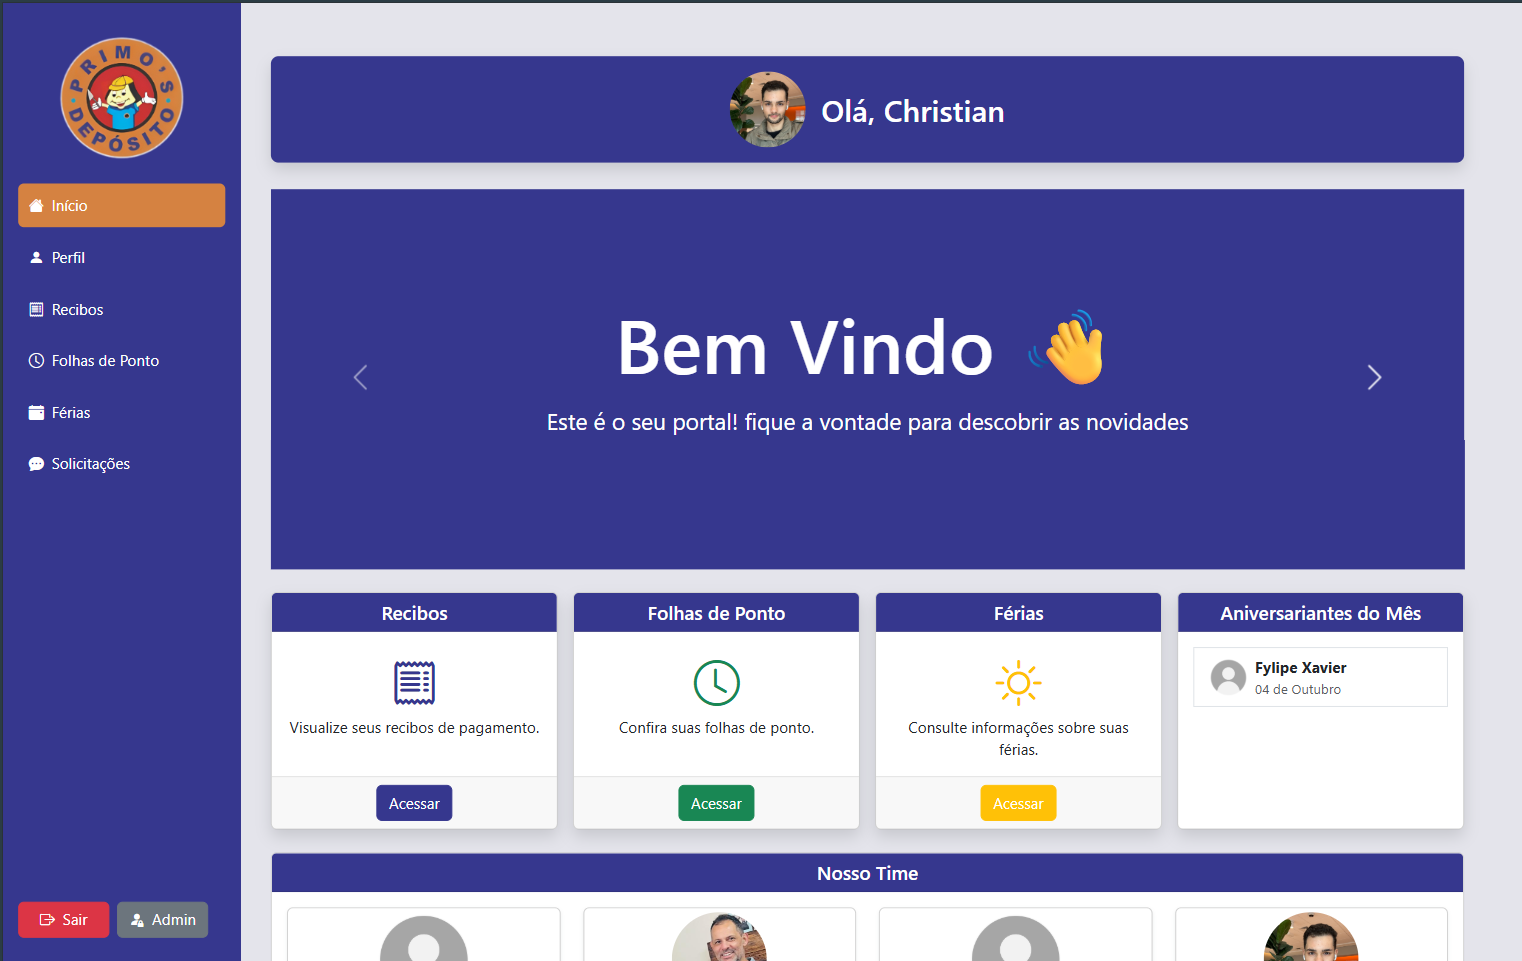
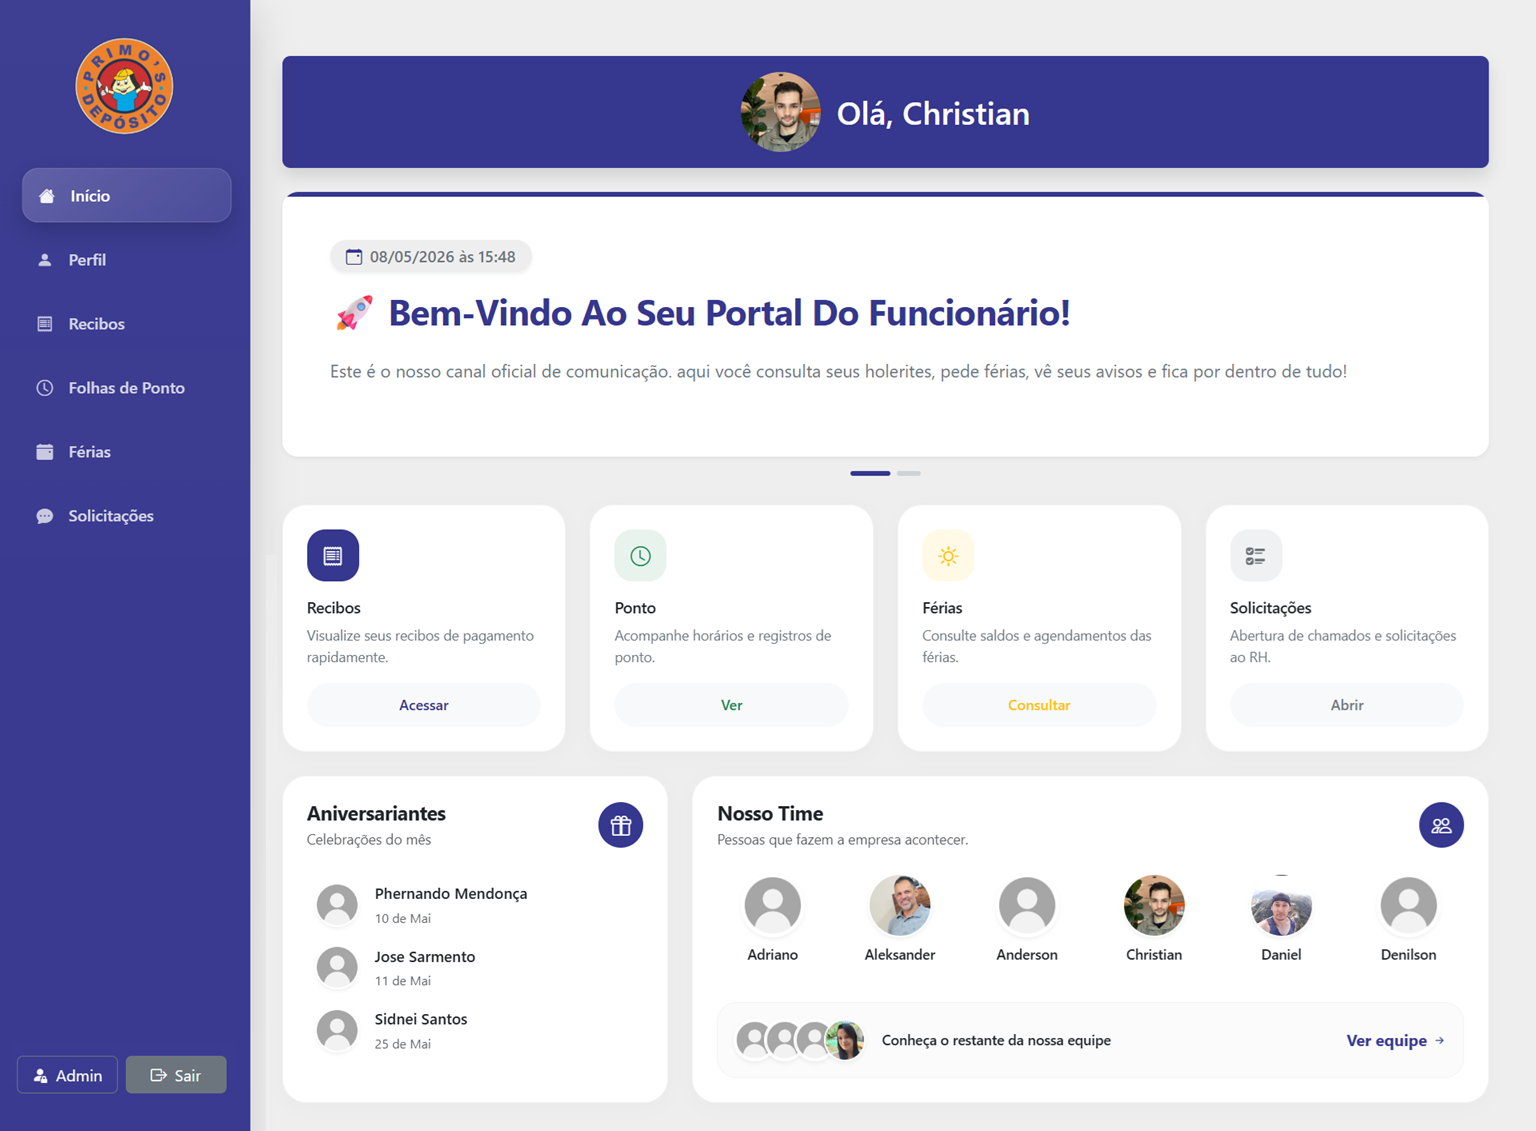
Refactor code structure for improved readability and maintainability

diff --git a/projeto-template.html b/projeto-template.html
@@ -33,12 +33,12 @@
             </label>
 
             <ul class="nav-menu">
-                <li><a href="#services" data-aos="fade-down" data-aos-delay="300">Soluções</a></li>
-                <li><a href="#projects" data-aos="fade-down" data-aos-delay="300">Portfólio</a></li>
-                <li><a href="#process" data-aos="fade-down" data-aos-delay="300">Processo</a></li>
-                <li><a href="#skills" data-aos="fade-down" data-aos-delay="300">Especialidades</a></li>
-                <li><a href="#about" data-aos="fade-down" data-aos-delay="300">Sobre</a></li>
-                <li><a href="#contact" data-aos="fade-down" data-aos-delay="300">Contato</a></li>
+                <li><a href="index.html#services" data-aos="fade-down" data-aos-delay="300">Soluções</a></li>
+                <li><a href="index.html#projects" data-aos="fade-down" data-aos-delay="300">Portfólio</a></li>
+                <li><a href="index.html#process" data-aos="fade-down" data-aos-delay="300">Processo</a></li>
+                <li><a href="index.html#skills" data-aos="fade-down" data-aos-delay="300">Especialidades</a></li>
+                <li><a href="index.html#about" data-aos="fade-down" data-aos-delay="300">Sobre</a></li>
+                <li><a href="index.html#contact" data-aos="fade-down" data-aos-delay="300">Contato</a></li>
             </ul>
         </nav>
     </header>
